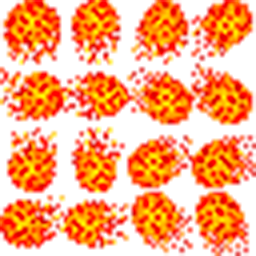
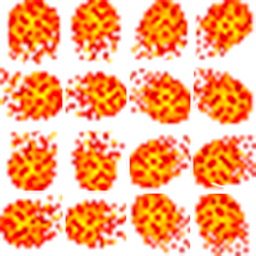
なにかコミット

diff --git a/Solution/EnemyFireball.cpp b/Solution/EnemyFireball.cpp
@@ -1,4 +1,6 @@
 #include "EnemyFireball.h"
+#include "Camera.h"
+#include "Drawer.h"
 
 static const int CHIP_SIZE = 64;
 static const int CHIP_FOOT = 0;
@@ -22,8 +24,10 @@ EnemyFireball::~EnemyFireball( ) {
 }
 
 void EnemyFireball::act( ) {
-	_pos += _vec;
+	_count++;
 
+	_pos += _vec;
+	
 	setX( ( int )_pos.x );
 	setY( ( int )_pos.y );
 
@@ -33,8 +37,24 @@ void EnemyFireball::act( ) {
 		angle = PI2 - angle;
 	}
 	int n = ( int )( angle / ( PI2 / 16 ) );
-	const int MAX_ANIME_PATTERN = 2;
-	int u = n % 4;
-	int v = n / 4;
-	setChipGraph( GRAPH_ENEMY_FIREBALL, u, v );
+	_u = n % 4;
+	_v = n / 4;
+	setChipGraph( GRAPH_ENEMY_FIREBALL, _u, _v );
+}
+
+void EnemyFireball::drawOverlapped( CameraConstPtr camera ) const {
+
+	int tx = _u * CHIP_SIZE;
+	int ty = _v * CHIP_SIZE;
+	int sx1 = getX( ) - camera->getX( ) - CHIP_SIZE / 2;
+	int sy1 = getY( ) - camera->getY( ) - CHIP_SIZE + getChipFoot( );	
+	int sx2 = sx1 + CHIP_SIZE + _count % 10;
+	int sy2 = sy1 + CHIP_SIZE + _count % 10;
+	sx1 -= _count % 10;
+	sy1 -= _count % 10;
+
+	DrawerPtr drawer = Drawer::getTask( );
+	Drawer::Transform trans( sx1, sy1, tx, ty, CHIP_SIZE, CHIP_SIZE, sx2, sy2 );
+	Drawer::Sprite sprite( trans, GRAPH_ENEMY_FIREBALL, Drawer::BLEND_ADD, 1.0 * _count / 10 );
+	drawer->setSprite( sprite );
 }

diff --git a/Solution/EnemyFireball.h b/Solution/EnemyFireball.h
@@ -9,8 +9,12 @@ public:
 	virtual ~EnemyFireball( );
 private:
 	void act( );
+	void drawOverlapped( CameraConstPtr camera ) const;
 private:
 	Vector _pos;
 	Vector _vec;
+	int _u;
+	int _v;
+	int _count;
 };
 
